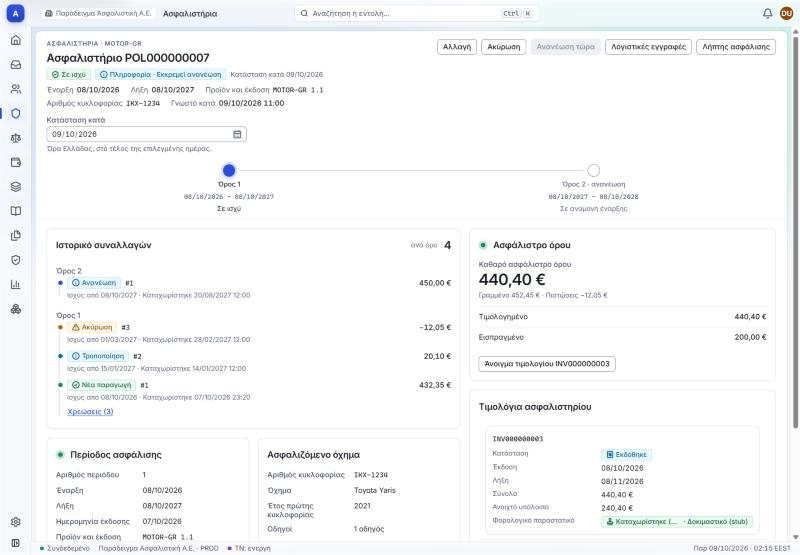
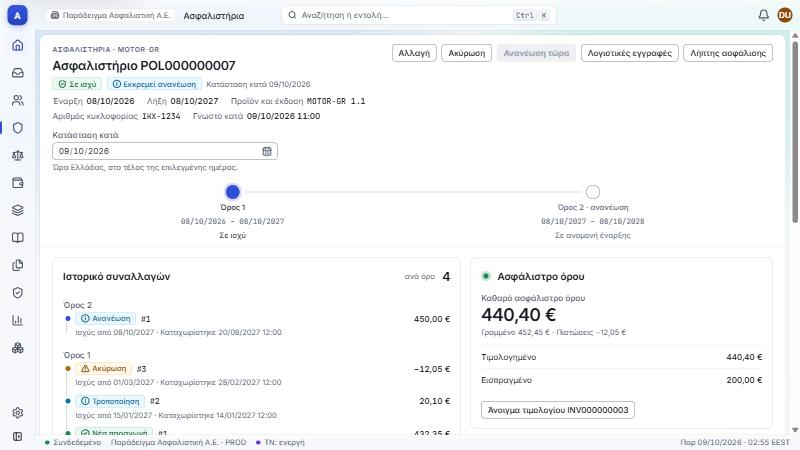
SL3-UI-POL-FILE: pills show their own text; compact fiscal pill; refresh screenshots

diff --git a/web/src/modules/billing/FiscalStatusPill.tsx b/web/src/modules/billing/FiscalStatusPill.tsx
@@ -15,7 +15,14 @@ const states: Record<string, FiscalState> = {
  * Fiscal-document status of an invoice. In the slice the document comes from the CMP stub, not from the tax
  * authority, so the pill always carries the «stub» marker (D-SLC-10b).
  */
-export function FiscalStatusPill({ status }: { status: string | null | undefined }) {
+export function FiscalStatusPill({
+  status,
+  compact = false,
+}: {
+  status: string | null | undefined;
+  /** Short text and stub marker, for narrow cards (e.g. the policy file's invoice list). */
+  compact?: boolean;
+}) {
   const { t } = useTranslation('billing');
   // A missing status shows a dash, never a raw translation key.
   if (!status) return <span>—</span>;
@@ -25,7 +32,8 @@ export function FiscalStatusPill({ status }: { status: string | null | undefined
     <StatusPill
       entity="fiscalDocument"
       state={mapped}
-      subLabel={t('fiscal.stub')}
+      {...(compact ? { text: t(`fiscal.status.${status}`, { defaultValue: status }) } : {})}
+      subLabel={compact ? t('fiscal.stubShort') : t('fiscal.stub')}
       announceChanges={false}
     />
   );

diff --git a/web/src/modules/policy/PolicyViewPage.tsx b/web/src/modules/policy/PolicyViewPage.tsx
@@ -130,16 +130,12 @@ function PolicyDetails({
           <>
             {status ? <TermStatusPill state={status} /> : null}
             {renewal ? (
-              <StatusPill
-                semantic="info"
-                subLabel={t('file.renewalPending')}
-                announceChanges={false}
-              />
+              <StatusPill semantic="info" text={t('file.renewalPending')} announceChanges={false} />
             ) : null}
             {superseded ? (
               <StatusPill
                 semantic="stale"
-                subLabel={t('file.superseded.badge')}
+                text={t('file.superseded.badge')}
                 announceChanges={false}
               />
             ) : null}
@@ -287,7 +283,7 @@ function PolicyDetails({
           ) : null}
           <Section title={t('invoices.title')}>
             <QueryView query={invoices}>
-              {(page) => <InvoiceTable items={page.items} label={t('invoices.title')} />}
+              {(page) => <InvoiceTable items={page.items} label={t('invoices.title')} compact />}
             </QueryView>
           </Section>
         </div>

diff --git a/web/src/modules/billing/InvoiceTable.tsx b/web/src/modules/billing/InvoiceTable.tsx
@@ -24,10 +24,12 @@ type Row = NonNullable<InvoiceListPage['items']>[number];
 export interface InvoiceTableProps {
   items: readonly Row[];
   label: string;
+  /** Short fiscal-status pill for narrow cards. */
+  compact?: boolean;
 }
 
 /** Invoices with their state and the fiscal-document marker; Enter opens one. */
-export function InvoiceTable({ items, label }: InvoiceTableProps) {
+export function InvoiceTable({ items, label, compact = false }: InvoiceTableProps) {
   const { t } = useTranslation('billing');
   const navigate = useNavigate();
   const columns = useMemo<DataColumn<Row>[]>(
@@ -53,10 +55,10 @@ export function InvoiceTable({ items, label }: InvoiceTableProps) {
         'fiscal',
         t('invoice.columns.fiscal'),
         (r) => fiscalOf(r),
-        (r) => <FiscalStatusPill status={fiscalOf(r)} />,
+        (r) => <FiscalStatusPill status={fiscalOf(r)} compact={compact} />,
       ),
     ],
-    [t],
+    [t, compact],
   );
   return (
     <SimpleTable<Row>

diff --git a/web/src/modules/policy/file/TransactionHistory.tsx b/web/src/modules/policy/file/TransactionHistory.tsx
@@ -65,7 +65,7 @@ function ChargesTable({ charges, label }: { charges: ChargeLineModel[]; label: s
           c.provisional === true ? (
             <StatusPill
               semantic="warning"
-              subLabel={t('file.charges.provisional')}
+              text={t('file.charges.provisional')}
               announceChanges={false}
             />
           ) : c.legalStatus ? (
@@ -116,7 +116,7 @@ function HistoryRow({
           {row.reversed ? (
             <StatusPill
               semantic="read-only"
-              subLabel={t('file.history.reversed')}
+              text={t('file.history.reversed')}
               announceChanges={false}
             />
           ) : null}

diff --git a/web/src/modules/policy/policy.test.tsx b/web/src/modules/policy/policy.test.tsx
@@ -57,7 +57,7 @@ describe('PolicyViewPage', () => {
     expect(within(history).getByText('432,35 €')).toBeInTheDocument();
     const invoices = await screen.findByRole('grid', { name: 'Τιμολόγια ασφαλιστηρίου' });
     expect(within(invoices).getByText('INV000000003')).toBeInTheDocument();
-    expect(within(invoices).getByText(/Δοκιμαστικό \(stub\)/)).toBeInTheDocument();
+    expect(within(invoices).getByText(/Δοκιμαστικό/)).toBeInTheDocument();
 
     // The as-of date goes out in date form (D-SLC-13).
     expect(
